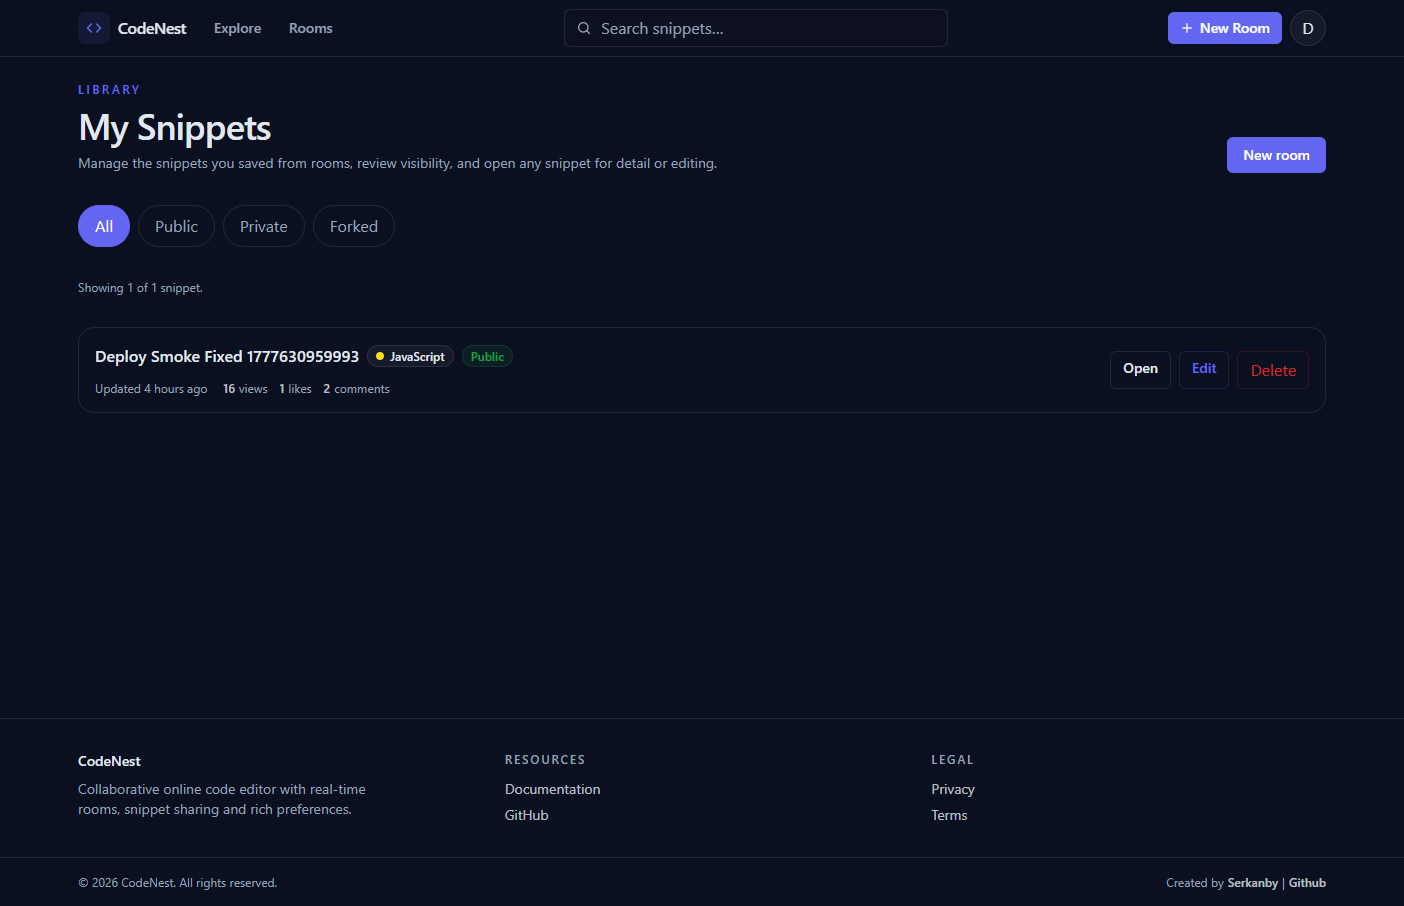
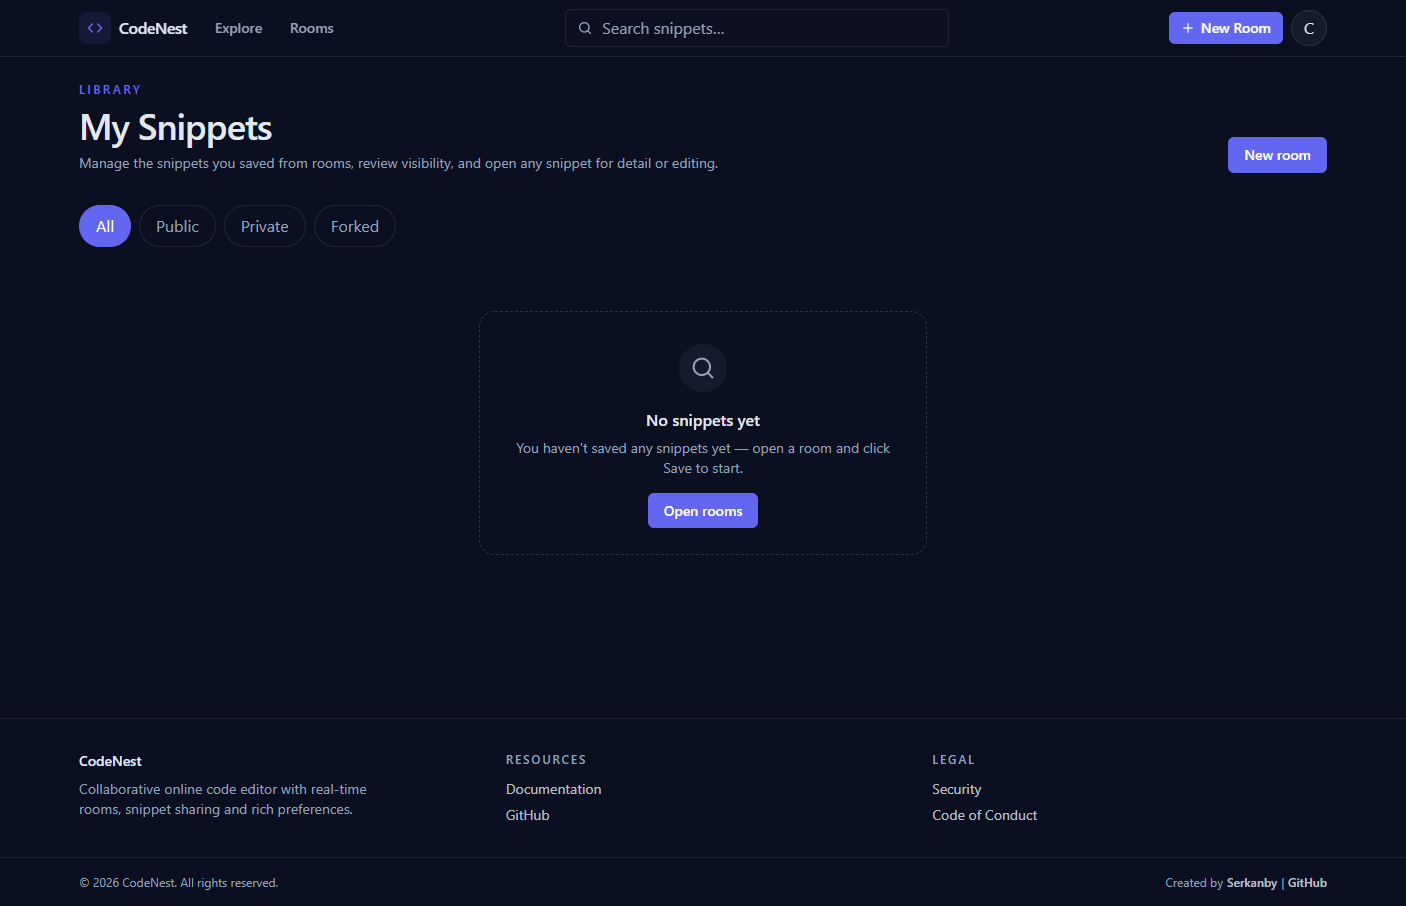
docs: add live README screenshots and update demo URL

diff --git a/README.md b/README.md
@@ -57,17 +57,15 @@
 
 ## Live Demo
 
+**[https://online-code-editorr.netlify.app/](https://online-code-editorr.netlify.app/)**
+
 Deploy your own instance using the [Deployment](#deployment) section below, or run locally with the [Quick Start](#installation) guide.
-
-After publishing, add your Netlify URL here:
-
-`https://your-codenest-app.netlify.app`
 
 ---
 
 ## Screenshots
 
-Screenshots below are stored in `assets/screenshots/`. Replace or extend them from your live deployment for the best portfolio presentation.
+Screenshots below are captured from the [live demo](https://online-code-editorr.netlify.app/) and stored in `assets/screenshots/`.
 
 <table>
   <tr>
